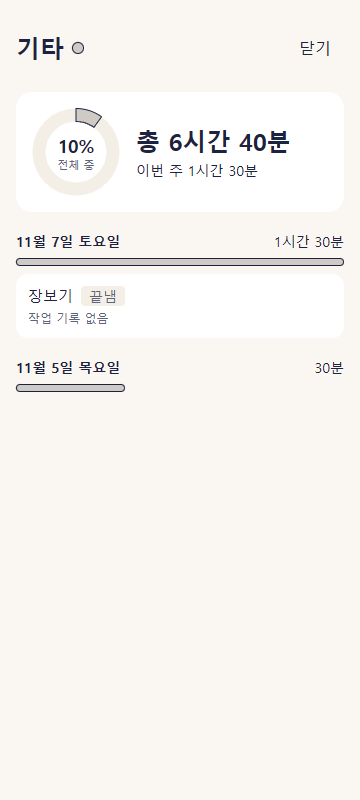
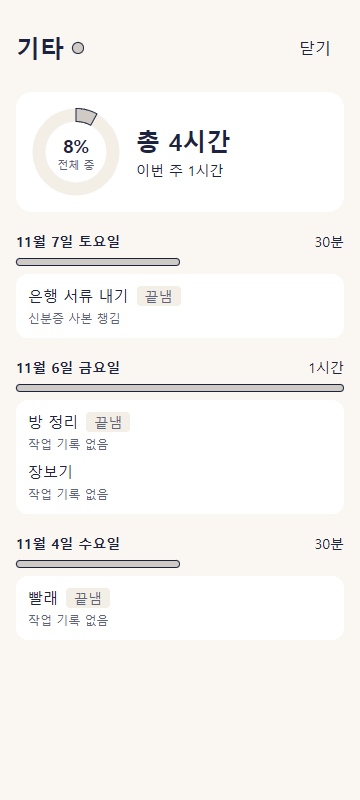
원샷 v2 고침8: 기타 페이지·빈 상태를 Figma 121:468·121:527에 맞춤(갤러리 값 · 화면 시험 · 사진)

diff --git a/app/dev/v2/gallery.dev.tsx b/app/dev/v2/gallery.dev.tsx
@@ -168,9 +168,18 @@ const CATEGORY_DAYS: CategoryPageData["days"] = [
   { day: "2026-11-05", minutes: 45, todos: [] },
   { day: "2026-11-04", minutes: 0, todos: [{ id: "t4", text: "단어장 만들기", done: true, notes: [] }] },
 ];
+/** 기타 페이지(Figma 121:468, PM d-148 가): 30분 · 1시간(가장 긴 날) · 30분 */
 const OTHER_DAYS: CategoryPageData["days"] = [
-  { day: "2026-11-07", minutes: 90, todos: [{ id: "o1", text: "장보기", done: true, notes: [] }] },
-  { day: "2026-11-05", minutes: 30, todos: [] },
+  { day: "2026-11-07", minutes: 30, todos: [{ id: "o1", text: "은행 서류 내기", done: true, notes: [{ id: "on1", todoId: "o1", day: "2026-11-07", createdAt: "x", readable: true, text: "신분증 사본 챙김" }] }] },
+  {
+    day: "2026-11-06",
+    minutes: 60,
+    todos: [
+      { id: "o2", text: "방 정리", done: true, notes: [] },
+      { id: "o3", text: "장보기", done: false, notes: [] },
+    ],
+  },
+  { day: "2026-11-04", minutes: 30, todos: [{ id: "o4", text: "빨래", done: true, notes: [] }] },
 ];
 const categoryApi = (categoryId: string | null, days: CategoryPageData["days"]): GrowthApi => ({
   fetchGrowth: never,
@@ -458,8 +467,12 @@ export function V2Gallery({ id }: { id: string }) {
     return <Opener render={(close) => <CategoryPage api={categoryApi(C1, CATEGORY_DAYS)} categoryId={C1} name="어학" growth={WEEK_GROWTH} onClose={close} />} />;
   }
   if (id === "category-other") {
-    // 고침8: 기타 페이지 — 같은 꼴, 「목표 비율」 줄 없음
-    const growth: GrowthData = { ...WEEK_GROWTH, cumulative: [...WEEK_GROWTH.cumulative, { categoryId: null, minutes: 400 }] };
+    // 고침8: 기타 페이지 — 같은 꼴, 「목표 비율」 줄 없음. Figma 121:468과 같은 값(누적 50시간 중 기타 4시간 = 8%, 이번 주 1시간)
+    const growth: GrowthData = {
+      ...WEEK_GROWTH,
+      thisWeek: [{ categoryId: C1, minutes: 300 }, { categoryId: null, minutes: 60 }],
+      cumulative: [{ categoryId: C1, minutes: 1500 }, { categoryId: C2, minutes: 900 }, { categoryId: C3, minutes: 360 }, { categoryId: null, minutes: 240 }],
+    };
     return <Opener render={(close) => <CategoryPage api={categoryApi(null, OTHER_DAYS)} categoryId={null} name="기타" growth={growth} onClose={close} />} />;
   }
   if (id === "category-empty") {
